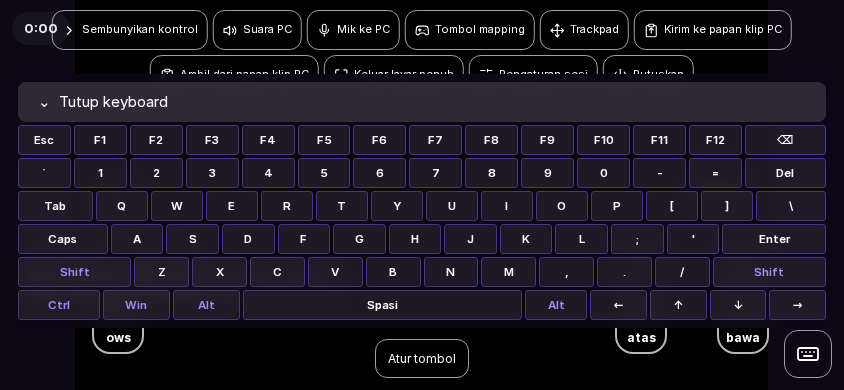
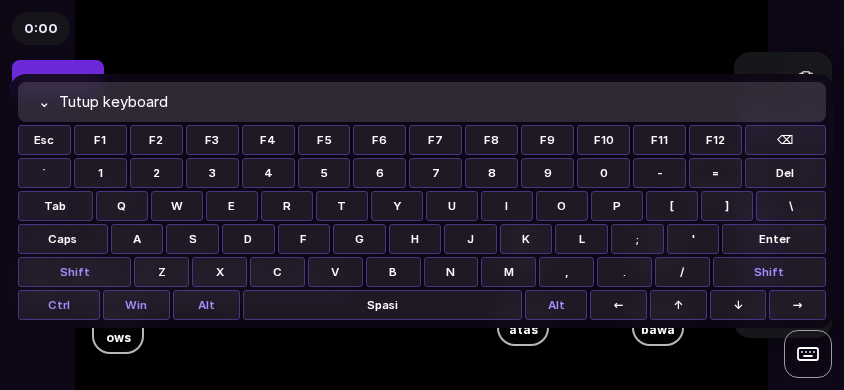
kembalikan rail kanan, hapus checkbox, rapikan tombol pointer mapping
Izin: SESI-20260919-OPERATOR-UXFINISH

diff --git a/web/test/control_mapping.test.js b/web/test/control_mapping.test.js
@@ -1,7 +1,7 @@
 import test from 'node:test';import assert from 'node:assert/strict';import vm from 'node:vm';import {readFileSync} from 'node:fs';import {transformWithOxc} from 'vite';
 let source=readFileSync(new URL('../src/rtc.ts',import.meta.url),'utf8').replace(/^import \{([^}]+)\} from '\.\/api';/m,'const {$1}=api;').replace(/^import .*$/gm,'').replace(/^export /gm,'');let {code}=await transformWithOxc(source+'\nexports.InputCodec=InputCodec;','rtc.ts');let rtc={};vm.runInNewContext(code,{exports:rtc,api:{},TextEncoder,TextDecoder,performance});
 let pointerSource=readFileSync(new URL('../src/remote_pointer.ts',import.meta.url),'utf8').replace(/^export /gm,'');let pointerCode=await transformWithOxc(pointerSource+'\nexports.canonicalKey=canonicalKey;','pointer.ts');const pointerExports={};vm.runInNewContext(pointerCode.code,{exports:pointerExports});
-source=readFileSync(new URL('../src/control_mapping.tsx',import.meta.url),'utf8').split('export function CustomControlMapping')[0].replace(/^import .*$/gm,'').replace(/^export /gm,'');({code}=await transformWithOxc(source+'\nexports.api={MappingHolds,normalizeMappings};','control_mapping.tsx'));let exports={};vm.runInNewContext(code,{exports,InputCodec:rtc.InputCodec,canonicalKey:pointerExports.canonicalKey});const {MappingHolds,normalizeMappings}=exports.api;
+source=readFileSync(new URL('../src/control_mapping.tsx',import.meta.url),'utf8').split('export function CustomControlMapping')[0].replace(/^import .*$/gm,'').replace(/^export /gm,'');({code}=await transformWithOxc(source+'\nexports.api={MappingHolds,normalizeMappings,withPointerDefaults};','control_mapping.tsx'));let exports={};const store=new Map();vm.runInNewContext(code,{exports,InputCodec:rtc.InputCodec,canonicalKey:pointerExports.canonicalKey,localStorage:{getItem:k=>store.has(k)?store.get(k):null,setItem:(k,v)=>store.set(k,String(v))}});const {MappingHolds,normalizeMappings,withPointerDefaults}=exports.api;
 const key={id:'w',label:'W',kind:'key',code:87,x:50,y:50,size:56};
 test('mapping sanitizes bounds, duplicate ids, unknown action and max count',()=>{const m=normalizeMappings([{...key,x:999,y:-9,size:999},key,{...key,id:'bad',kind:'xxx'}]);assert.equal(m.length,1);assert.equal(m[0].x,100);assert.equal(m[0].y,0);assert.equal(m[0].size,160);assert.equal(normalizeMappings(Array.from({length:30},(_,i)=>({...key,id:String(i)}))).length,24);});
 test('multiple touches on same mapped key retain hold until final release',()=>{const events=[];const h=new MappingHolds(b=>events.push(Array.from(b)));h.down('a',key);h.down('b',key);h.up('a');assert.equal(events.length,1);h.up('b');assert.equal(events.length,2);assert.deepEqual(events.map(b=>[b[0],b[1],b[3]]),[[5,87,1],[5,87,0]]);});
@@ -19,3 +19,5 @@ test('side mouse buttons and horizontal wheel serialize correct axis',()=>{
  assert.deepEqual(events.slice(0,2).map(b=>[b[0],b[1],b[2]]),[[3,4,1],[3,4,0]]);assert.deepEqual(events[2].slice(0,5),[4,120,0,0,0]);
 });
 test('automatic action labels and radius survive normalized layout',()=>{const x=normalizeMappings([{...key,kind:'chord',keys:[67,17],radius:999},{...key,id:'right',kind:'mouse',code:1,radius:-2}]);assert.equal(x[0].label,'Ctrl + C');assert.equal(x[0].radius,80);assert.equal(x[1].label,'Klik kanan');assert.equal(x[1].radius,0);});
+
+test('pointer controls return once for saved layouts that predate them',()=>{const base=[{id:'w',label:'',kind:'key',code:87,x:14,y:52,size:52}];const once=withPointerDefaults(base.map(x=>({...x})));assert.ok(once.some(m=>m.kind==='mouse'&&m.code===0));assert.ok(once.some(m=>m.kind==='scroll'));assert.equal(withPointerDefaults(once).length,once.length);});

diff --git a/web/src/style.css b/web/src/style.css
@@ -2935,22 +2935,14 @@ input::placeholder, textarea::placeholder { color: var(--text-low); }
 .remember-access{display:flex;align-items:flex-start;gap:8px;font-size:13px;line-height:1.5;margin:8px 0}.remember-access input{flex:none;margin-top:3px}
 
 img{-webkit-touch-callout:none;user-select:none;-webkit-user-select:none}
-.mapping-button{background:transparent;box-shadow:none;white-space:normal;overflow-wrap:anywhere;padding:5px;font-size:12px}
+.mapping-button{background:rgba(10,10,14,.34);backdrop-filter:blur(2px);box-shadow:none;white-space:normal;overflow-wrap:anywhere;padding:5px;font-size:12px}
 
-/* Session actions share the transparent border vocabulary; only keyboard stays in the corner. */
-.video-surface .srail{position:absolute;top:max(10px,env(safe-area-inset-top));left:50%;right:auto;bottom:auto;transform:translateX(-50%);display:flex;flex-direction:row;flex-wrap:wrap;justify-content:center;width:min(92%,850px);height:auto;padding:0;background:transparent;border:0;box-shadow:none;backdrop-filter:none;gap:5px;overflow:visible}
-.video-surface .srail-btn{width:auto;min-width:44px;height:40px;padding:6px 9px;border:1px solid #ffffffa0;border-radius:12px;background:transparent;color:white;text-shadow:0 1px 3px black;display:flex;gap:5px;font-size:11px}
-.srail-btn:after{content:attr(title)}.srail-btn svg{width:15px;height:15px}.srail-sep{display:none}
-.video-surface .srail-btn[title="Keyboard"]{position:fixed;right:0;top:calc(100dvh - 75px - env(safe-area-inset-bottom));height:48px}
-.srail.compact .srail-btn:not(:first-child):not([title="Keyboard"]){display:none}
-.video-surface .mapping-tools{top:105px;left:50%;right:auto;bottom:auto;transform:translateX(-50%);background:transparent;border:0;box-shadow:none}
-.mapping-tools button{background:transparent;border:1px solid #ffffffa0;color:white;border-radius:12px;text-shadow:0 1px 3px black}
+/* Rail kembali ke kolom kanan seperti semula; hanya pembuka keyboard di pojok. */
 .vkb{max-height:55dvh;overflow:auto;touch-action:manipulation;padding-bottom:max(8px,env(safe-area-inset-bottom))}.vkb-key{touch-action:manipulation;min-height:36px}
-@media(max-width:600px){.vkb-row{min-width:650px}.vkb{overscroll-behavior:contain}.video-surface .srail-btn{font-size:10px;padding:4px 6px}.srail-btn svg{display:none}}
+@media(max-width:600px){.vkb-row{min-width:650px}.vkb{overscroll-behavior:contain}}
 
 .srail-keyboard{position:absolute;right:max(12px,env(safe-area-inset-right));bottom:max(12px,env(safe-area-inset-bottom));z-index:45;min-width:48px;min-height:48px;border:1px solid #fff9;background:transparent;color:white;border-radius:14px}.srail-keyboard svg{width:24px;height:24px}
-.video-surface .vkb{z-index:60;max-height:75dvh}.vkb-dismiss{position:sticky;top:0;z-index:2}.video-surface:has(.srail.compact) .mapping-tools{top:56px}
+.video-surface .vkb{z-index:60;max-height:75dvh}.vkb-dismiss{position:sticky;top:0;z-index:2}
 @media(orientation:landscape) and (max-height:500px){.vkb-key{min-height:30px}.vkb-row{gap:3px}.vkb{gap:3px}}
-.video-surface .mapping-tools,.video-surface:has(.srail.compact) .mapping-tools{top:auto;bottom:max(12px,env(safe-area-inset-bottom))}
 .video-surface .spanel,.video-surface .spanel:not(.no-rail){z-index:70;right:max(12px,env(safe-area-inset-right));top:60px;bottom:12px;width:min(440px,calc(100% - 24px));max-height:calc(100% - 72px)}
-.video-surface .mapping-editor{z-index:65}
+.video-surface .mapping-editor{z-index:80}

diff --git a/web/src/control_mapping.tsx b/web/src/control_mapping.tsx
@@ -33,9 +33,15 @@ export function mappingLabel(m:{kind:string;code:number;keys?:number[]}):string 
 }
 const defaults=()=>normalizeMappings([
  {id:'w',label:'W',kind:'key',code:87,x:14,y:52,size:52},{id:'a',label:'A',kind:'key',code:65,x:7,y:68,size:52},{id:'s',label:'S',kind:'key',code:83,x:14,y:68,size:52},{id:'d',label:'D',kind:'key',code:68,x:21,y:68,size:52},
- {id:'right',kind:'mouse',code:1,x:88,y:68,size:60},{id:'up',kind:'scroll',code:120,x:76,y:84,size:52},{id:'down',kind:'scroll',code:-120,x:88,y:84,size:52},{id:'win',kind:'key',code:91,x:14,y:84,size:52},
- {id:'left',label:'Klik kiri',kind:'mouse',code:0,x:76,y:68,size:60},{id:'space',label:'Spasi',kind:'key',code:32,x:85,y:48,size:60},
+ {id:'right',kind:'mouse',code:1,x:78,y:64,size:52},{id:'up',kind:'scroll',code:120,x:62,y:82,size:52},{id:'down',kind:'scroll',code:-120,x:78,y:82,size:52},{id:'win',kind:'key',code:91,x:14,y:84,size:52},
+ {id:'left',label:'Klik kiri',kind:'mouse',code:0,x:62,y:64,size:52},{id:'space',label:'Spasi',kind:'key',code:32,x:85,y:48,size:60},
 ]);
+export function withPointerDefaults(items:Mapping[]):Mapping[]{
+ if(localStorage.getItem('xydesk.mapping.pointer.v1'))return items;
+ localStorage.setItem('xydesk.mapping.pointer.v1','1');
+ const missing=defaults().filter(d=>(d.kind==='mouse'||d.kind==='scroll')&&!items.some(x=>x.kind===d.kind&&x.code===d.code));
+ return missing.length?normalizeMappings([...items,...missing]):items;
+}
 export class MappingHolds {
  private owners=new Map<string,Mapping>();private counts=new Map<string,number>();
  constructor(private send:(b:Uint8Array)=>void){}
@@ -47,7 +53,7 @@ export class MappingHolds {
 export function CustomControlMapping({send}:{send:(b:Uint8Array)=>void}){
  const [landscape,setLandscape]=useState(()=>innerWidth>innerHeight);const orientation=landscape?'landscape':'portrait';
  const load=()=>{try{const raw=JSON.parse(localStorage.getItem(KEY)||'{}')[orientation];return Array.isArray(raw)?normalizeMappings(raw):null;}catch{return null;}};
- const [items,setItems]=useState<Mapping[]>(()=>{return load()??defaults();});
+ const [items,setItems]=useState<Mapping[]>(()=>{return withPointerDefaults(load()??defaults());});
  const [edit,setEdit]=useState(false),[selected,setSelected]=useState('');const [inspector,setInspector]=useState(false);const selectedItem=items.find(x=>x.id===selected);
  const sendRef=useRef(send);sendRef.current=send;const holds=useRef<MappingHolds|null>(null);if(!holds.current)holds.current=new MappingHolds(b=>sendRef.current(b));
  const drag=useRef<{pointer:number;id:string;dx:number;dy:number}|null>(null);const [notice,setNotice]=useState('');

diff --git a/web/src/App.tsx b/web/src/App.tsx
@@ -2044,7 +2044,7 @@ function ConnectScreen({
   const durasiDetik = useElapsedSec(phase === 'connected' ? connectedAt : null);
   const sisaDetik:number|null = null;
   const pairingSecretRef=useRef(pin); pairingSecretRef.current=pin;
-  const [rememberBrowser,setRememberBrowser]=useState(true);
+  const rememberBrowser=true;
   const [,updateAccess]=useState(0);
   const savedAccess=loadHostAccess(hostId.replace(/[\s-]/g,''));
   // Preferensi sesi — bertahan antar sesi di perangkat ini. Migrasi: entri lama tanpa quality/bitrate tetap jalan.
@@ -2607,7 +2607,6 @@ function ConnectScreen({
             setHostId(value);
             if (value.replace(/\s/g, '').length === 9) pinRef.current?.focus();
           }} />
-          {<label className="remember-access"><input type="checkbox" checked={rememberBrowser} onChange={e=>{setRememberBrowser(e.target.checked);if(!e.target.checked){forgetHostAccess(hostId.replace(/[\s-]/g,''));updateAccess(x=>x+1);}}}/> Ingat akses di browser ini. Jangan aktifkan pada perangkat bersama.</label>}
           {savedAccess&&<p>Izin PC ini tersimpan. <button type="button" className="text-action" onClick={()=>{forgetHostAccess(hostId.replace(/[\s-]/g,''));updateAccess(x=>x+1);}}>Lupakan akses browser</button></p>}
           {!savedAccess&&<><span className="field-label">Password pairing</span>
           <div className="pw-field">
